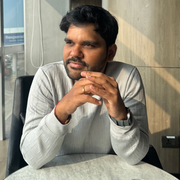
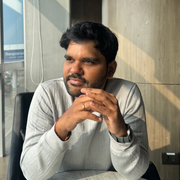
Recrop portrait to anchor B and cut duplicated navigation
The portrait crop moves from anchor C to B (--offset 100), which frames the
head best of the three previews. The default in prepare_profile_image.py moves
with it so a plain re-run cannot silently revert the choice, and the docstring
and README are updated to match.

Navigation is now redundant in three places. The masthead held Resume, LinkedIn
and GitHub, so the hero repeated them as buttons, the contact section repeated
them as cards, and the footer repeated them again as a follow row. On a single
page there is nothing for those links to navigate between.

The masthead therefore becomes in-page section anchors (Profile, Experience,
Patents, Education, Contact) against the auto-generated h2 ids, which also
gives the long page a way to jump around instead of scrolling end to end. The
masthead is position: relative rather than sticky, so anchors do not land under
it and no scroll-margin-top is needed. The footer follow row is dropped, keeping
footer.since so the copyright still renders a year range.

Net effect on the rendered page: the resume PDF appears once instead of twice,
and every remaining link keeps a clear path. Publications, Skills,
Certifications and Awards keep their anchors but stay out of the nav, since
Patents and Education cover the same ground for a first-time visitor.

diff --git a/tools/prepare_profile_image.py b/tools/prepare_profile_image.py
@@ -2,19 +2,19 @@
 """Derive the web image assets from the source portrait in ../tex.
 
 The source is 4:5 (1080x1280), so a square crop keeps the full width and only the
-vertical anchor moves. Three anchors were rendered as previews and C was chosen,
-because it leaves headroom above the head:
+vertical anchor moves. Three anchors were rendered as previews and B was chosen,
+as it frames the head best of the three:
 
     A  --offset 0    face sits at ~60% height (tight, low)
-    B  --offset 100  face sits at ~51% height (centred)
-    C  --offset 200  face sits at ~42% height (default)
+    B  --offset 100  face sits at ~51% height (centred, default)
+    C  --offset 200  face sits at ~42% height (most headroom)
 
 Nothing is ever upscaled: the crop is full-width, and both outputs are
 downsampled from it.
 
 Usage:
-    python3 tools/prepare_profile_image.py              # default anchor C
-    python3 tools/prepare_profile_image.py --offset 100 # switch to anchor B
+    python3 tools/prepare_profile_image.py              # default anchor B
+    python3 tools/prepare_profile_image.py --offset 200 # more headroom
     python3 tools/prepare_profile_image.py --src /path/to/photo.jpg
 """
 
@@ -35,7 +35,7 @@ OUT_ICON = os.path.join(ROOT, "assets", "images", "apple-touch-icon.png")
 PROFILE_SIZE = 600
 ICON_SIZE = 180
 JPEG_QUALITY = 85
-DEFAULT_OFFSET = 200
+DEFAULT_OFFSET = 100
 
 
 def square_crop(img, offset):

diff --git a/README.md b/README.md
@@ -25,7 +25,7 @@ Then open <http://localhost:4000>.
 | `index.md` | The profile page (all resume content) |
 | `404.md` | Not-found page |
 | `_config.yml` | Site metadata, author details, structured data (`profile:`) |
-| `_data/navigation.yml` | Masthead navigation |
+| `_data/navigation.yml` | Masthead navigation (in-page section anchors) |
 | `_sass/custom.scss` | Accent colours and profile-specific styling |
 | `assets/images/` | Portrait, social preview card, favicon, iOS touch icon |
 | `assets/resume/` | Compiled resume PDF |
@@ -61,11 +61,11 @@ python3 tools/generate_og_image.py
 ```
 
 The source is 4:5, so `prepare_profile_image.py` takes a full-width square crop
-and only the vertical anchor moves. Three anchors were previewed; the default
-`--offset 200` leaves the most headroom above the head. To try another:
+and only the vertical anchor moves. Three anchors were previewed and the default
+`--offset 100` frames the head best. To try another:
 
 ```bash
-python3 tools/prepare_profile_image.py --offset 100   # more centred
+python3 tools/prepare_profile_image.py --offset 200   # more headroom
 ```
 
 `apple-touch-icon.png` must stay full-bleed square with no alpha and no
